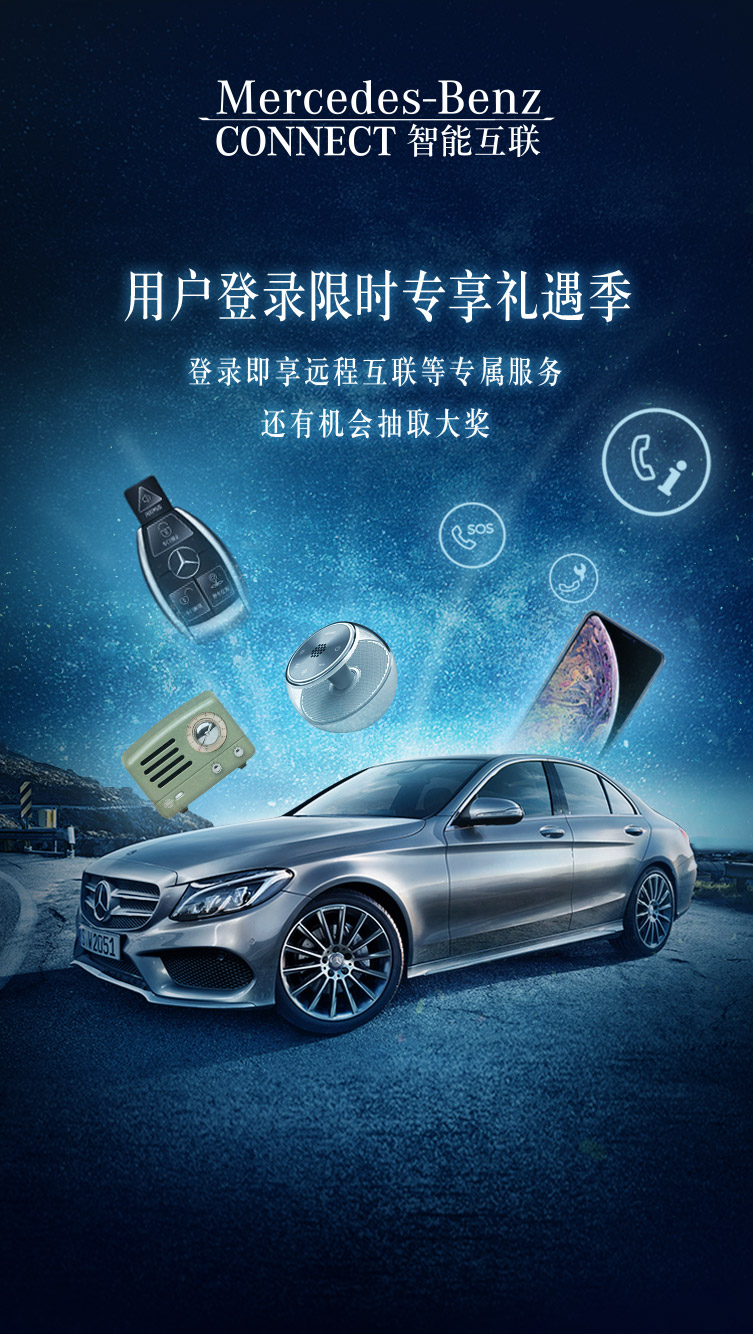
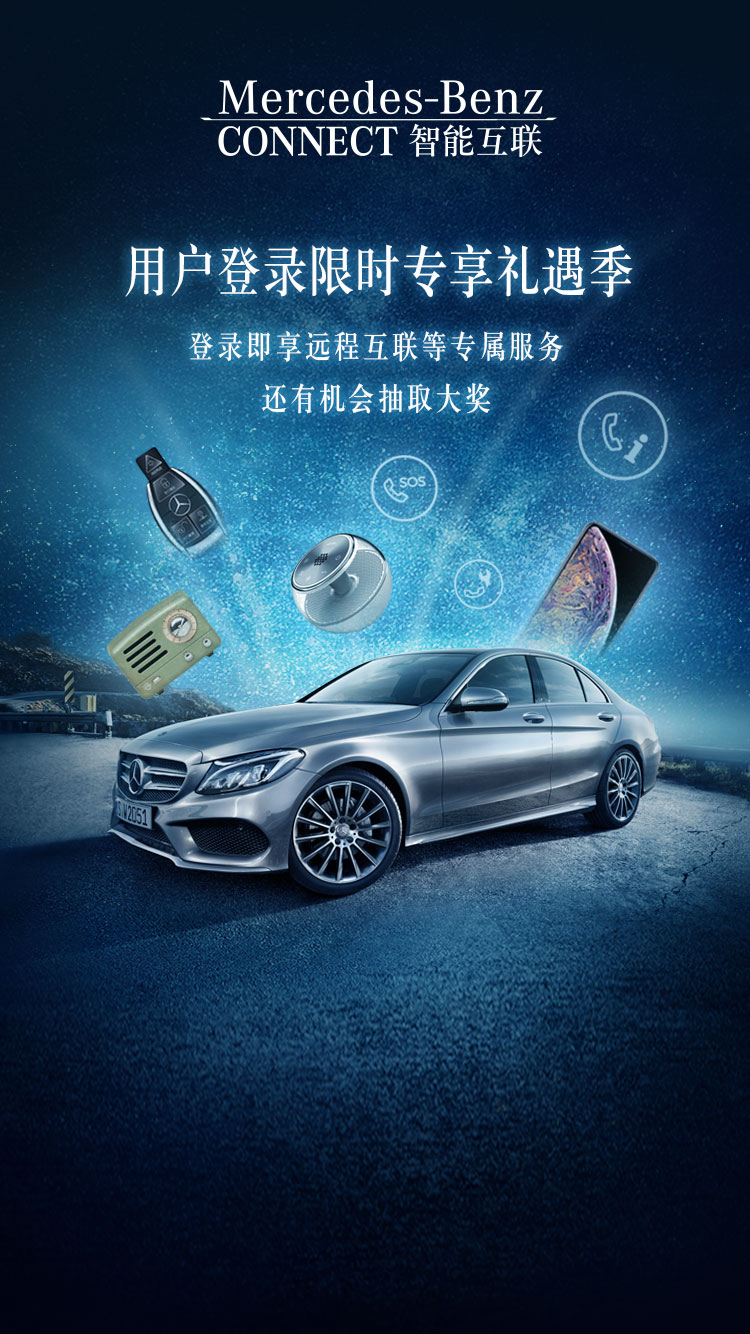
cr483

diff --git a/src/main/webapp/resources/luckyDraw/assets/css/style.css b/src/main/webapp/resources/luckyDraw/assets/css/style.css
@@ -16,10 +16,15 @@ html {
   position: relative;
   width: 100%;
   height: 100%;
+  min-height: 1200px;
+  overflow-y: scroll;
 }
 
 body {
   background-color: #00004c;
+  overflow: hidden;
+  -webkit-touch-callout: none;
+  -webkit-user-select: none;
 }
 
 img {
@@ -136,6 +141,7 @@ p {
   -webkit-transform 0.4s cubic-bezier(0.4, 0.01, 0.165, 0.99);
   -webkit-transition: -webkit-transform 0.4s cubic-bezier(0.4, 0.01, 0.165, 0.99);
   overflow: hidden;
+  min-height: 1200px;
 }
 
 .landingPage {
@@ -322,12 +328,12 @@ a {
 }
 
 .btn_login {
-  top: 1025px;
+  top: 925px;
   left: 135px;
 }
 
 .btn_rule {
-  top: 1150px;
+  top: 1060px;
   left: 214px;
 }
 
@@ -527,7 +533,7 @@ a {
 
 .starlight {
   left: 34px;
-  top: 420px;
+  top: 370px;
   -webkit-animation: starL 2s ease-in-out infinite;
   animation: starL 2s ease-in-out infinite;
 }
@@ -535,27 +541,33 @@ a {
 .finger {
   top: 1040px;
   left: 460px;
-    -webkit-animation: ff 1.5s ease-in-out infinite;
-    animation: ff 1.5s ease-in-out infinite;
+  -webkit-animation: ff 1.5s ease-in-out infinite;
+  animation: ff 1.5s ease-in-out infinite;
 }
+
 @-webkit-keyframes ff {
   0% {
     opacity: .3;
   }
+
   60% {
     opacity: 1;
   }
+
   100% {
     opacity: .3;
   }
 }
+
 @keyframes ff {
   0% {
     opacity: .3;
   }
+
   60% {
     opacity: 1;
   }
+
   100% {
     opacity: .3;
   }
@@ -625,11 +637,43 @@ a {
   left: 129px;
   top: 417px;
 }
+
 .awardshow2 {
   left: 140px;
   top: 370px;
 }
+
 .awardshow3 {
   left: 140px;
   top: 350px;
+}
+
+.xshow {
+  display: none;
+}
+
+.page1-bg {
+  position: absolute;
+  left: 0;
+  top: 0;
+}
+
+@media screen and (min-height:1300px) {
+  .xshow {
+    display: block;
+  }
+
+  .btn_login {
+    top: 1005px;
+    left: 135px;
+  }
+
+  .btn_rule {
+    top: 1148px;
+    left: 214px;
+  }
+  .starlight {
+
+    top: 430px;
+}
 }

diff --git a/src/main/webapp/views/luckyDraw.html b/src/main/webapp/views/luckyDraw.html
@@ -118,6 +118,7 @@
 <div class="wrap dn">
     <div class="landingPage">
         <img baksrc="../resources/luckyDraw/assets/i/page1bg.jpg" alt="" class="imgFluid">
+        <img baksrc="../resources/luckyDraw/assets/i/page1bg-x.jpg" alt="" class="imgFluid page1-bg xshow">
         <img baksrc="../resources/luckyDraw/assets/i/starlight.png" alt="" class="starlight ab">
         <img baksrc="../resources/luckyDraw/assets/i/btn_login.png" alt="" class="btn_login ab">
         <img baksrc="../resources/luckyDraw/assets/i/btn_rule.png" alt="" class="btn_rule ab">

diff --git a/src/main/webapp/resources/luckyDraw/assets/js/index.js b/src/main/webapp/resources/luckyDraw/assets/js/index.js
@@ -129,6 +129,10 @@ $(document).ready(function () {
         $(".finger").fadeIn();
         $(".lucky").fadeIn();
     })
+
+    $("input").blur(function() {
+        $("body").scrollTop(0);
+    })
 });
 
 function luckyDraw() {

diff --git a/src/main/java/com/alipay/util/DESUtil.java b/src/main/java/com/alipay/util/DESUtil.java
@@ -7,6 +7,7 @@ import javax.crypto.Cipher;
 import javax.crypto.SecretKey;
 import javax.crypto.SecretKeyFactory;
 import javax.crypto.spec.DESKeySpec;
+import javax.crypto.spec.SecretKeySpec;
 import java.io.IOException;
 import java.security.SecureRandom;
 
@@ -15,8 +16,9 @@ import java.security.SecureRandom;
  */
 public class DESUtil {
 
-    private final static String DES = "DES";
-    private static String key = "12345678901gssgfsgrwsd64643";
+    private final static String AES = "AES";
+    private final static String INSTANCE = "AES/ECB/PKCS5Padding";
+    private static String key = "5678901gssgfsgrw";
 
     /**
      * Description 根据键值进行加密
@@ -25,7 +27,7 @@ public class DESUtil {
      * @throws Exception
      */
     public static String encrypt(String data) throws Exception {
-        byte[] bt = encrypt(data.getBytes(), key.getBytes());
+        byte[] bt = encrypt(data.getBytes("UTF-8"), key.getBytes("UTF-8"));
         String strs = new BASE64Encoder().encode(bt);
         return strs;
     }
@@ -62,14 +64,13 @@ public class DESUtil {
         DESKeySpec dks = new DESKeySpec(key);
 
         // 创建一个密钥工厂，然后用它把DESKeySpec转换成SecretKey对象
-        SecretKeyFactory keyFactory = SecretKeyFactory.getInstance(DES);
-        SecretKey securekey = keyFactory.generateSecret(dks);
-
+//        SecretKeyFactory keyFactory = SecretKeyFactory.getInstance(AES);
+//        SecretKey securekey = keyFactory.generateSecret(dks);
         // Cipher对象实际完成加密操作
-        Cipher cipher = Cipher.getInstance(DES);
+        Cipher cipher = Cipher.getInstance(INSTANCE);
 
         // 用密钥初始化Cipher对象
-        cipher.init(Cipher.ENCRYPT_MODE, securekey, sr);
+        cipher.init(Cipher.ENCRYPT_MODE, new SecretKeySpec(key, AES));
 
         return cipher.doFinal(data);
     }
@@ -88,12 +89,12 @@ public class DESUtil {
         // 从原始密钥数据创建DESKeySpec对象
         DESKeySpec dks = new DESKeySpec(key);
         // 创建一个密钥工厂，然后用它把DESKeySpec转换成SecretKey对象
-        SecretKeyFactory keyFactory = SecretKeyFactory.getInstance(DES);
-        SecretKey securekey = keyFactory.generateSecret(dks);
+//        SecretKeyFactory keyFactory = SecretKeyFactory.getInstance(INSTANCE);
+//        SecretKey securekey = keyFactory.generateSecret(dks);
         // Cipher对象实际完成解密操作
-        Cipher cipher = Cipher.getInstance(DES);
+        Cipher cipher = Cipher.getInstance(AES);
         // 用密钥初始化Cipher对象
-        cipher.init(Cipher.DECRYPT_MODE, securekey, sr);
+        cipher.init(Cipher.DECRYPT_MODE, new SecretKeySpec(key, AES));
 
         return cipher.doFinal(data);
     }

diff --git a/src/main/java/com/htichina/web/wechat/GetAccessTokenServlet.java b/src/main/java/com/htichina/web/wechat/GetAccessTokenServlet.java
@@ -1,6 +1,7 @@
 package com.htichina.web.wechat;
 
 import com.alipay.util.DESUtil;
+import com.alipay.util.UtilDate;
 import com.google.gson.Gson;
 import com.htichina.common.web.Constant;
 import com.htichina.web.PaymentServiceClient;
@@ -18,6 +19,8 @@ import javax.servlet.http.HttpServletRequest;
 import javax.servlet.http.HttpServletResponse;
 import java.io.IOException;
 import java.io.PrintWriter;
+import java.text.SimpleDateFormat;
+import java.util.Date;
 
 /**
  * Created by ln on 2018/05/24.
@@ -26,7 +29,8 @@ import java.io.PrintWriter;
 public class GetAccessTokenServlet extends HttpServlet {
 	private static Logger logger = Logger.getLogger(GetAccessTokenServlet.class.getName());
 
-private static Integer num=1000;
+private static Integer num=500;
+private static Date generate_date=new Date();
 
 	@Override
 	protected void doGet(HttpServletRequest req, HttpServletResponse resp)
@@ -37,15 +41,31 @@ private static Integer num=1000;
 	@Override
 	protected void doPost(HttpServletRequest req, HttpServletResponse resp)
 			throws ServletException, IOException {
-		num=num-1;
+		Date now = new Date();
 		AccessTokenResult accessTokenResult = new AccessTokenResult();
+		try {
+			int days = UtilDate.getDayLength(generate_date,now);
+			if(days==0){
+				num=num-1;
+			}else{
+				num=500;
+			}
+		} catch (Exception e) {
+			e.printStackTrace();
+		}
 		if(num>0) {
-			 String token = WechatAccessTokenUtils.getWechatToken();
+			accessTokenResult.setLeftTimes(num.toString());
+			String token = WechatAccessTokenUtils.getWechatToken();
 			try {
 				//加密
 				String result = DESUtil.encrypt(token);
 				accessTokenResult.setResult(result);
-				accessTokenResult.setGetTime(WechatAccessTokenUtils.generate_date);
+				SimpleDateFormat sdf = new SimpleDateFormat("yyyy-MM-dd HH:mm:ss");
+				String time = sdf.format(WechatAccessTokenUtils.generate_date);
+				accessTokenResult.setGetTime(time);
+				generate_date=now;
+				int gapMinutes = UtilDate.getGapMinutes(WechatAccessTokenUtils.generate_date, now);
+				accessTokenResult.setRemainTime((60-gapMinutes)+"");
 			} catch (Exception e) {
 				accessTokenResult.setMessage("error");
 			}
@@ -58,6 +78,7 @@ private static Integer num=1000;
 		Gson gson = new Gson();
 		String str = gson.toJson(accessTokenResult);
 		logger.info("locate result = "+str);
+
 		out.write(str);
 		out.flush();
 		out.close();

diff --git a/src/main/java/com/htichina/web/accessToken/AccessTokenResult.java b/src/main/java/com/htichina/web/accessToken/AccessTokenResult.java
@@ -9,7 +9,9 @@ import java.util.Date;
 public class AccessTokenResult {
     String result;
     String message="success";
-    Date getTime;
+    String getTime;
+    String leftTimes;
+    String remainTime;
 
     public String getResult() {
         return result;
@@ -27,11 +29,27 @@ public class AccessTokenResult {
         this.message = message;
     }
 
-    public Date getGetTime() {
+    public String getGetTime() {
         return getTime;
     }
 
-    public void setGetTime(Date getTime) {
+    public void setGetTime(String getTime) {
         this.getTime = getTime;
+    }
+
+    public String getLeftTimes() {
+        return leftTimes;
+    }
+
+    public void setLeftTimes(String leftTimes) {
+        this.leftTimes = leftTimes;
+    }
+
+    public String getRemainTime() {
+        return remainTime;
+    }
+
+    public void setRemainTime(String remainTime) {
+        this.remainTime = remainTime;
     }
 }

diff --git a/src/main/java/com/htichina/web/wechat/LuckyDraw2Servlet.java b/src/main/java/com/htichina/web/wechat/LuckyDraw2Servlet.java
@@ -74,7 +74,7 @@ public class LuckyDraw2Servlet extends HttpServlet {
 //		String accountNum = "10631821";
         String accountNum = client.getActiveAccountByOpenId(openId);
 		String paymentPlatform = (String)req.getSession().getAttribute(Constant.PAYMENT_PLATFORM);
-		logger.info("openId============================"+openId);
+//		logger.info("openId============================"+openId);
 		logger.info("accountNum============================"+accountNum);
 		logger.info("paymentPlatform============================"+paymentPlatform);
 		//判断是否符合资格

diff --git a/src/main/java/com/alipay/util/UtilDate.java b/src/main/java/com/alipay/util/UtilDate.java
@@ -79,5 +79,13 @@ public class UtilDate {
 		//System.out.println("from="+from+";to="+to+";minutes="+minutes);
 		return minutes;
 	}
-	
+	public static int getDayLength(Date fromDate, Date toDate) throws Exception {
+//		DateFormat df = new SimpleDateFormat("yyyy-MM-dd");
+//		Date fromDate = df.parse(start_date); // 开始日期
+//		Date toDate = df.parse(end_date); // 结束日期
+		long from = fromDate.getTime();
+		long to = toDate.getTime();
+		int day = (int) ((to - from) / (24 * 60 * 60 * 1000));
+		return day;
+	}
 }
